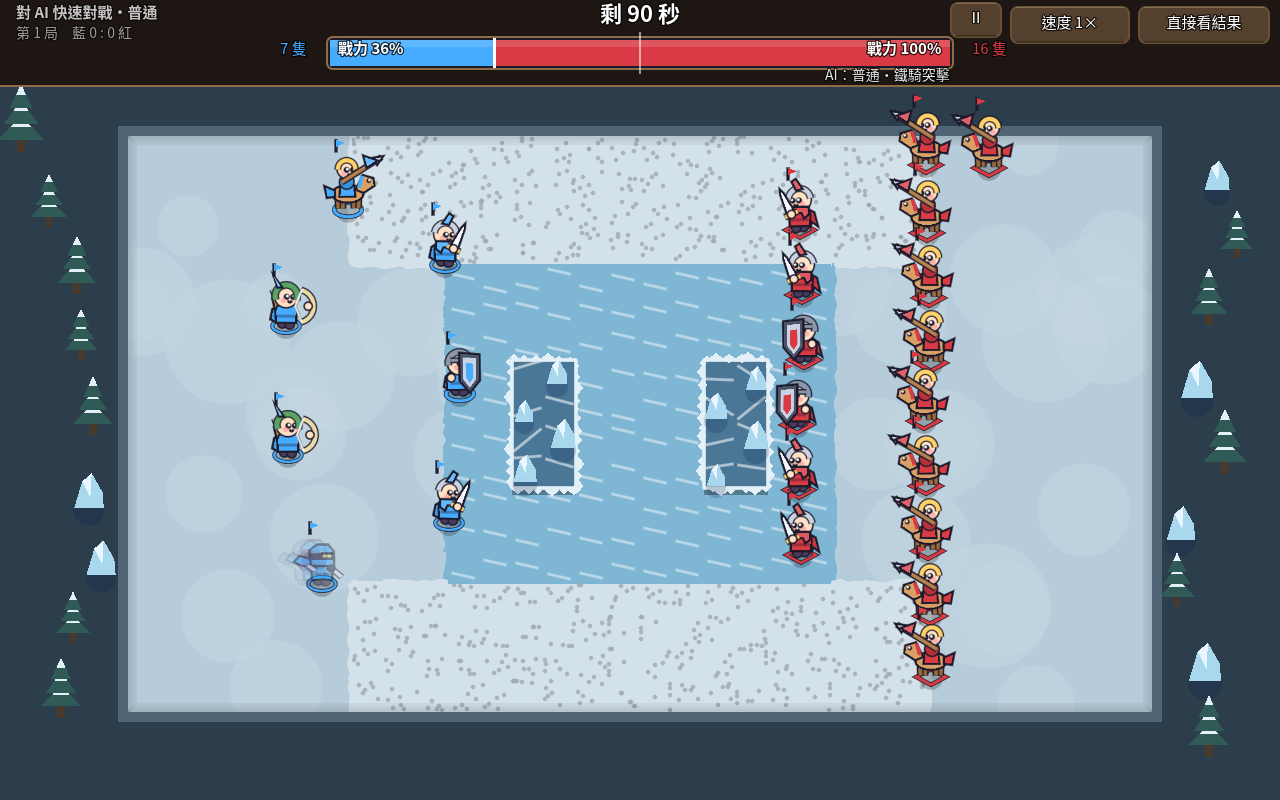
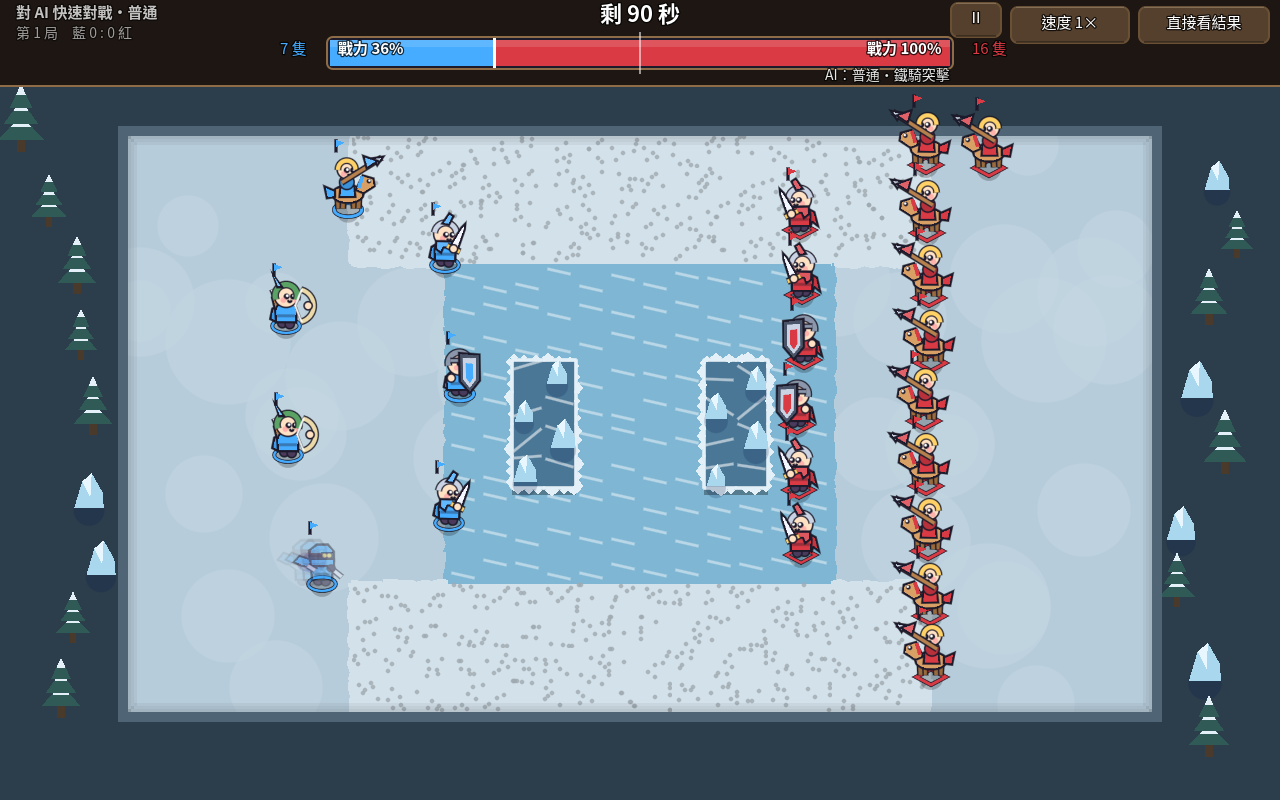
第十輪收尾 v1.0.2：孢子菇、史萊姆前搖幅度調小；截圖與文件更新
Claude-Session: https://claude.ai/code/session_01XBTCy99wND5CaAY6MHW1Sg

diff --git a/docs/STATE.md b/docs/STATE.md
@@ -1,12 +1,12 @@
 # 落子無悔：現在的真相
 
-> 第七輪 J3 建立，第十輪（V1.0.1）更新。這份只寫「現在是什麼」，不寫過程。數字來源都在程式裡，有衝突以程式為準；改規則、數值、模式時要同步這份。
+> 第七輪 J3 建立，第十輪（V1.0.2）更新。這份只寫「現在是什麼」，不寫過程。數字來源都在程式裡，有衝突以程式為準；改規則、數值、模式時要同步這份。
 > 歷史與為什麼這樣決定：看 `docs/history/` 的各輪方案。進度：第七輪 `docs/history/2026-11-04-grand-optimization-plan-v7.md` §20、第八輪 `docs/history/2026-11-04-fantasy-units-plan-v8.md` §12、第九輪 `docs/2026-11-04-v1-release-plan-v9.md` §14、第十輪 `docs/2026-11-05-v1-polish-plan-v10.md` §14。
 
 ## 版本
 | 項目 | 值 | 位置 |
 |---|---|---|
-| App | 1.0.1（單一來源 `project.godot`，匯出設定同步；標題頁顯示） | `project.godot` |
+| App | 1.0.2（單一來源 `project.godot`，匯出設定同步；標題頁顯示） | `project.godot` |
 | 引擎 | Godot 4.6.2-stable（本機、CI、匯出模板要一致，`check_all.sh` 會擋） | `tools/check_all.sh`、`.github/workflows/ci.yml` |
 | 規則版本 | `D.RULES_VERSION`（1.3.0）；用到新兵的場次顯示 1.4.0 | `scripts/core/unit_defs.gd` |
 | 存檔格式 | `SAVE_VERSION` | `scripts/game/save.gd` |
@@ -74,7 +74,7 @@
 - `SHARDS=14 tools/balance/fantasy_eval.sh <army|cheese|core|repl> <輸出檔>`：奇幻兵平衡；替換實驗至少用 `--bases=24 --opp=14`（112 場會把雜訊看成超標）。
 - 統一檢查在 Windows 版要 40～50 分鐘，外層 timeout 至少開 90 分鐘。
 
-## 最後一次驗收（2026-11-05，第十輪收尾，commit e76997b）
+## 最後一次驗收（2026-11-05，第十輪收尾，v1.0.2）
 - 統一檢查 CHECK OK（37 步、約 16 分鐘、`--no-cache`）：測試 698 項全過；FINGERPRINT b8fe741bcbfcf800、數值摘要 288176c5c9af5a79，和第七、八、九輪相同，`scripts/core` 這輪沒有改動。
 - 版面 426 張（2 語言 × 3 字級）0 違規，含 20 張禁牌、離開確認、代碼、遠征續玩；手把流程 6 組全過（版面檢查的一部分，真實輸入事件走標題、選單、大廳、禁牌、打完一場試煉）。
 - 動畫檢查 22 種 × 28 格 0 問題；圖集通過；正式版、試玩版匯出自我檢查通過。Linux 匯出（含新的試玩版）本機沒模板，看 CI。

diff --git a/docs/2026-11-05-v1-polish-plan-v10.md b/docs/2026-11-05-v1-polish-plan-v10.md
@@ -171,7 +171,7 @@ B1、B3 特別要注意：V9 回報時說這兩項有作用，實際沒有完整
 - [Juice 過量的風險](https://www.wayline.io/blog/the-seductive-squeeze-when-juice-in-game-development-becomes-a-crutch)
 
 ## 14. 實作進度
-2026-11-05 依方案全部實作（`b6b36a6`..`v1.0.1`），使用者決定批次 A～F 一次做完，§11 照建議，地圖美術全部提前。裁決在 `coordination/v10-ledger.md`，驗收數字在 `docs/STATE.md`。
+2026-11-05 依方案全部實作（`b6b36a6`..`v1.0.2`），使用者決定批次 A～F 一次做完，§11 照建議，地圖美術全部提前。裁決在 `coordination/v10-ledger.md`，驗收數字在 `docs/STATE.md`。
 
 | 批次 | 狀態 | 備註 |
 |---|---|---|
@@ -183,5 +183,7 @@ B1、B3 特別要注意：V9 回報時說這兩項有作用，實際沒有完整
 | F 上架素材 | 完成 | 商店文案、截圖更新；膠囊圖沒動 |
 
 三方：實作階段一輪（`coordination/v10-r1`）。Codex 6 條、Antigravity 6 條；Antigravity 第 1 條（調低生成上限）不採納。這些修正只過自動驗收，沒有再審。
+
+**版本**：`v1.0.1` 的孢子菇、史萊姆前搖壓得太扁（自動檢查抓不到，收尾看動畫表才發現），調整後打 `v1.0.2`。請用 `v1.0.2`。
 
 **只有使用者能做的項目沒變**，見 §8。遊戲仍然沒有真人玩過。

diff --git a/docs/playtest/protocol.md b/docs/playtest/protocol.md
@@ -4,7 +4,7 @@
 > **【你】**找人、**Claude**準備版本與分析數據。
 
 ## 準備（Claude）
-1. 試玩包在 `build/playtest-v1.0.1/`（第十輪產生，含 `kit-readme.md`）。之後改版要重新產生。
+1. 試玩包在 `build/playtest-v1.0.2/`（第十輪產生，含 `kit-readme.md`）。之後改版要重新產生。
 2. 遊戲的「設定 → 試玩紀錄」預設關閉。試玩前請每位玩家**打開**。
    - 每場戰鬥會寫一行到本機 `playtest_log.jsonl`：模式、陣型代碼、結果、懸念指標。
    - 戰鬥中右上角多一顆「我知道誰會贏了」按鈕，按下會記錄是第幾秒。
